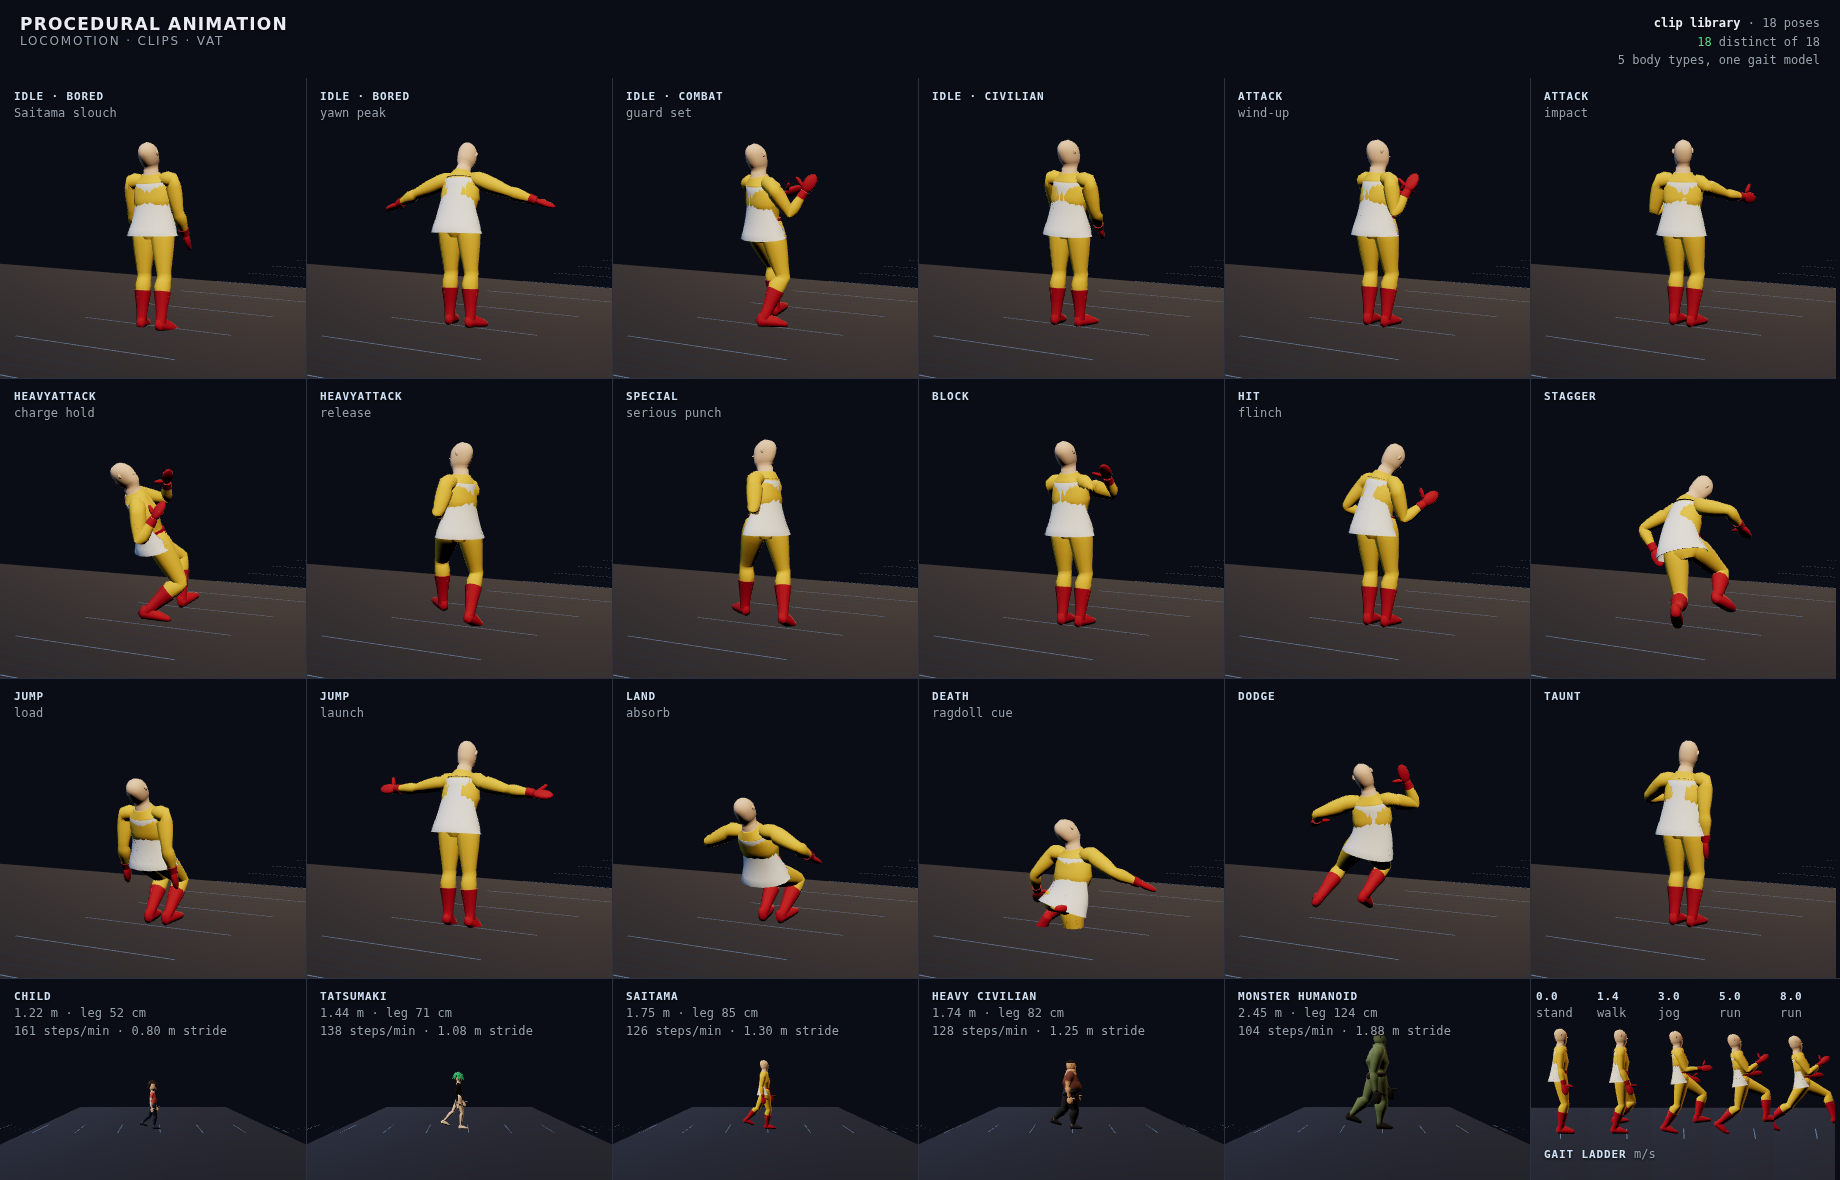
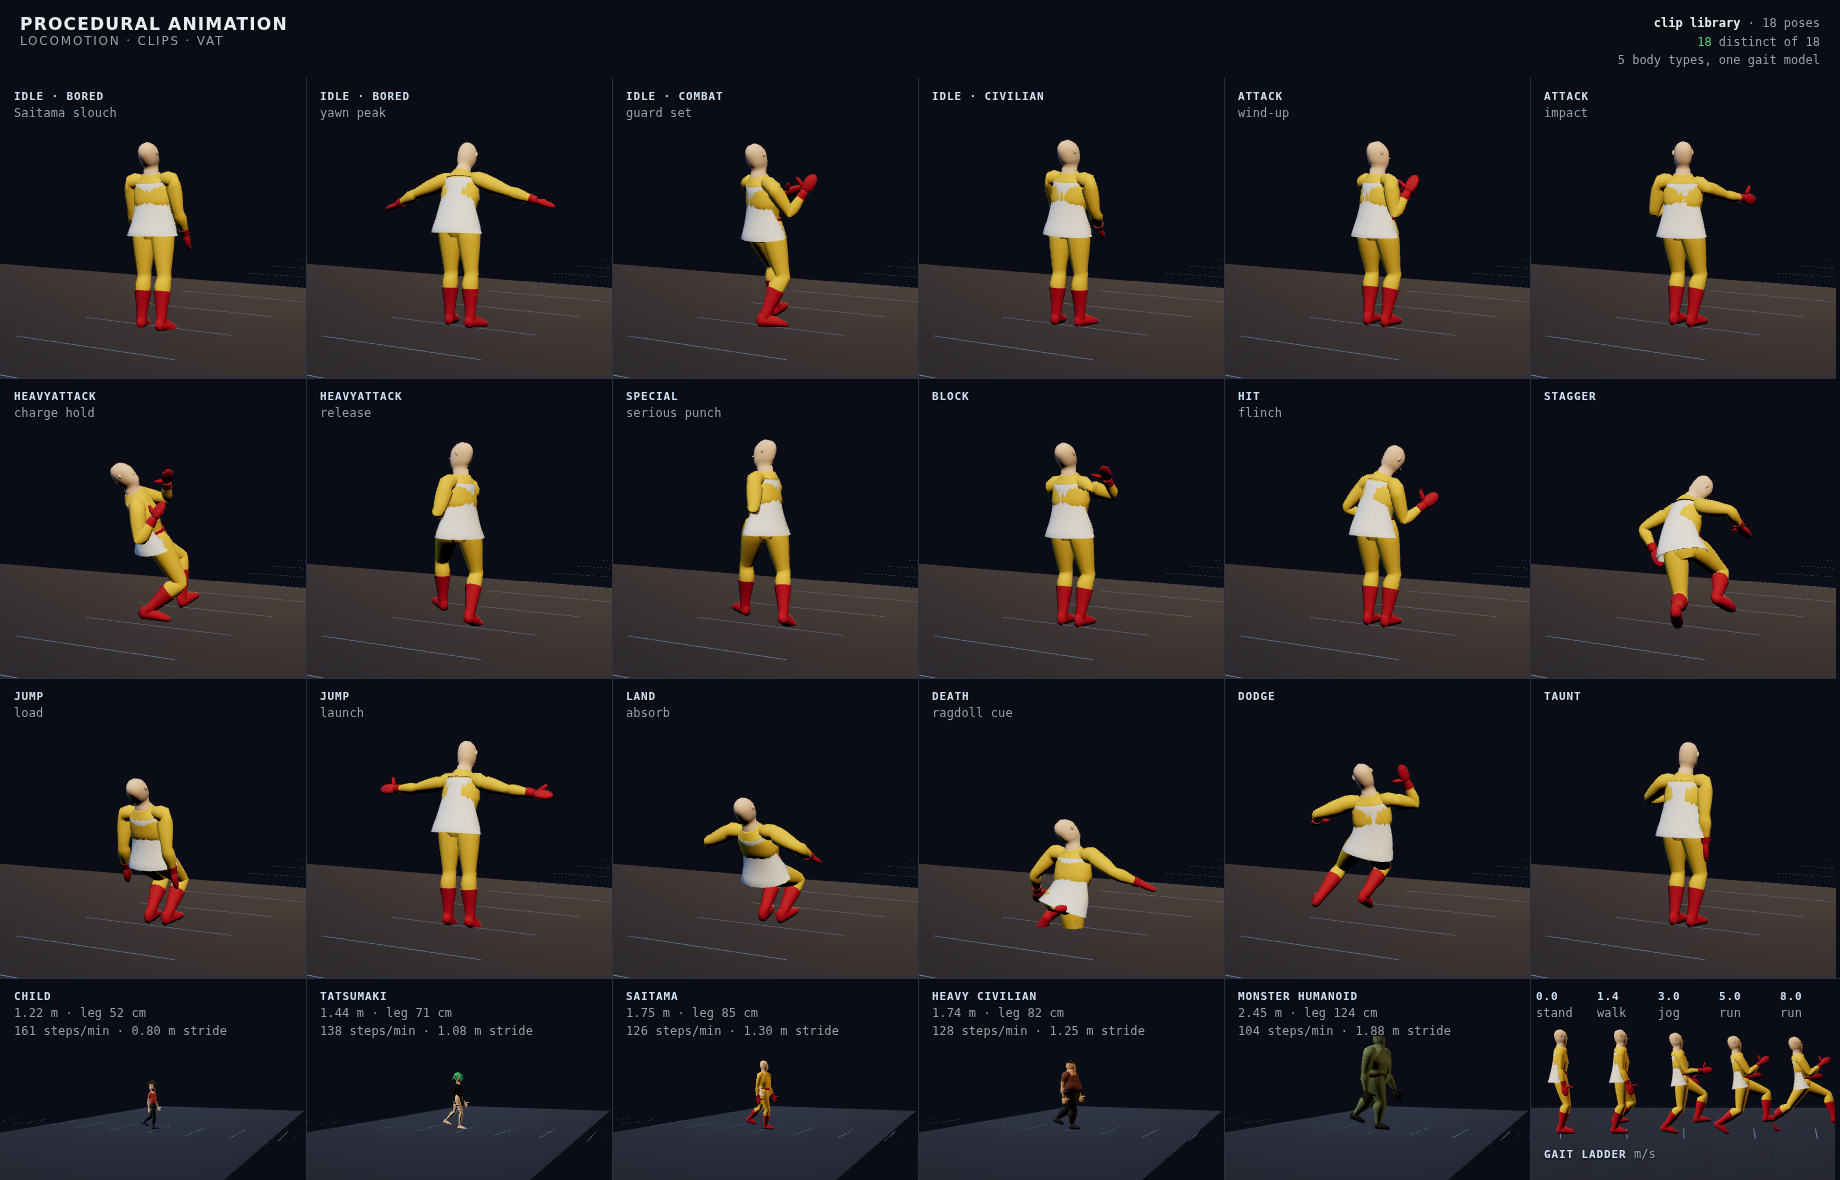
Checkpoint in-flight workstreams
Claude-Session: https://claude.ai/code/session_01Eu52StAEGMiytM7UTvKy5J

diff --git a/src/characters/anim/locomotion.ts b/src/characters/anim/locomotion.ts
@@ -175,7 +175,17 @@ const ROLL_HEEL_END = 0.18;
 const ROLL_TOE_START = 0.55;
 /** Ankle pitch at heel strike (toes up) and at toe-off (toes down), radians. */
 const HEEL_STRIKE_PITCH = 0.16;
-const TOE_OFF_PITCH = -0.68;
+/**
+ * Twenty-nine degrees, not the forty this started at.
+ *
+ * More plantar flexion buys reach — the ankle rides higher over the ball, so
+ * the leg can be further behind the body without over-extending — and it is
+ * tempting to spend that. But past about thirty degrees the trailing foot
+ * reads as a pointed ballet toe rather than a push-off, which is visible in a
+ * single frame. The reach it was buying is now provided by the standing
+ * crouch instead.
+ */
+const TOE_OFF_PITCH = -0.44;
 /** Step width as a fraction of hip half-width, walking then running. */
 const STANCE_WIDTH_WALK = 0.66;
 const STANCE_WIDTH_RUN = 0.24;
@@ -246,6 +256,7 @@ export class LocomotionSolver {
   private readonly model: THREE.Matrix4[] = [];
   private readonly initialPhase: number;
   private solution: GaitSolution;
+  private lastReport: LocomotionReport | undefined;
   private reachDrop = 0;
   private pelvisY = 0;
   /** Set when a foot touched down this frame; drained by the animator. */
@@ -362,7 +373,7 @@ export class LocomotionSolver {
     this.solveLeg(pose, this.left);
     this.solveLeg(pose, this.right);
 
-    return {
+    this.lastReport = {
       solution,
       phase: this.phase,
       left: this.report(this.left),
@@ -370,6 +381,20 @@ export class LocomotionSolver {
       reachDrop: this.reachDrop,
       pelvisY: this.pelvisY,
     };
+    return this.lastReport;
+  }
+
+  /**
+   * The last report, without re-solving.
+   *
+   * Exists because "just call `update(0)` again to read the state" is a trap:
+   * the solver writes INTO the pose it is handed, and a caller who passes a
+   * fresh pose rather than the rest pose gets a skeleton collapsed to the
+   * origin, a nonsense hip position, and a reach limit computed from it. The
+   * numbers look plausible and are entirely wrong.
+   */
+  get report_(): LocomotionReport | undefined {
+    return this.lastReport;
   }
 
   /** Current gait solution, for callers that need it without re-solving. */
@@ -520,7 +545,7 @@ export class LocomotionSolver {
     const outward = lerp(0.13, 0.2, run) + 0.09 * (1 - a) + slouch * 0.05;
     const adduct = Math.PI / 2 - droop - outward;
 
-    const swing = lerp(0.34, 0.95, run) * a;
+    const swing = lerp(0.38, 0.95, run) * a;
     const backBias = lerp(0.1, 0.02, run) * a;
     const elbow = lerp(0.22, 1.5, run) + 0.12 * a + slouch * 0.35;
 
@@ -545,7 +570,10 @@ export class LocomotionSolver {
       if (fore !== undefined) {
         // Elbow hinge is the bind-frame Y axis: the arm points sideways at
         // bind, so folding it forward is a yaw, and the sign mirrors.
-        const flex = elbow + Math.max(0, forward) * lerp(0.5, 0.35, run);
+        // The elbow flexes MORE on the forward swing than on the back swing.
+        // Symmetric elbows are the difference between an arm that swings and
+        // an arm that is being waved.
+        const flex = elbow + Math.max(0, forward) * lerp(0.85, 0.4, run);
         _q0.setFromAxisAngle(_Y_AXIS, -sign * flex);
         setRotation(pose, fore, _q0);
       }

diff --git a/harness/anim.ts b/harness/anim.ts
@@ -292,11 +292,22 @@ function renderCell(cell: Cell, camera: THREE.Camera): void {
   renderer.render(scene, camera);
 }
 
-/** A side-on camera framing a character of the given height. */
+/**
+ * A near-profile camera, swung 24 degrees toward the front.
+ *
+ * A pure side view is the classic way to present a walk cycle and it is the
+ * best angle for judging the legs against the ground — but the far arm
+ * disappears behind the torso, and on a caped character the near arm vanishes
+ * against the cape whenever it swings back. The result reads as a character
+ * with no arm swing at all, which is a rendering artefact rather than an
+ * animation one. Twenty-four degrees keeps the legs legible and separates
+ * both arms.
+ */
 function profileCamera(cell: Cell, height: number, centerZ = 0): THREE.PerspectiveCamera {
   const camera = new THREE.PerspectiveCamera(26, cell.w / cell.h, 0.1, 60);
   const distance = height * 4.4;
-  camera.position.set(distance, height * 0.56, centerZ);
+  const yaw = (24 * Math.PI) / 180;
+  camera.position.set(distance * Math.cos(yaw), height * 0.56, centerZ - distance * Math.sin(yaw));
   camera.lookAt(0, height * 0.5, centerZ);
   return camera;
 }
@@ -359,9 +370,10 @@ function renderWalkCycle(): WalkStats {
     const pose = copyPose(actor.pose, probe);
     applyPose(pose, rig);
     actor.root.updateMatrixWorld(true);
-    report = solver.update(0, { speed }, createPose(rig.boneCount));
-    // Re-derive the report for the CURRENT state without advancing time, so
-    // the labels describe the frame actually drawn.
+    // The report from the update that PRODUCED this pose. Re-solving with
+    // `update(0)` to read the state would need the rest pose passed back in,
+    // and passing anything else silently collapses the skeleton.
+    report = solver.report_!;
     ground.setOffset(solver.rootPosition.z);
     markers.set(report, solver);
 
